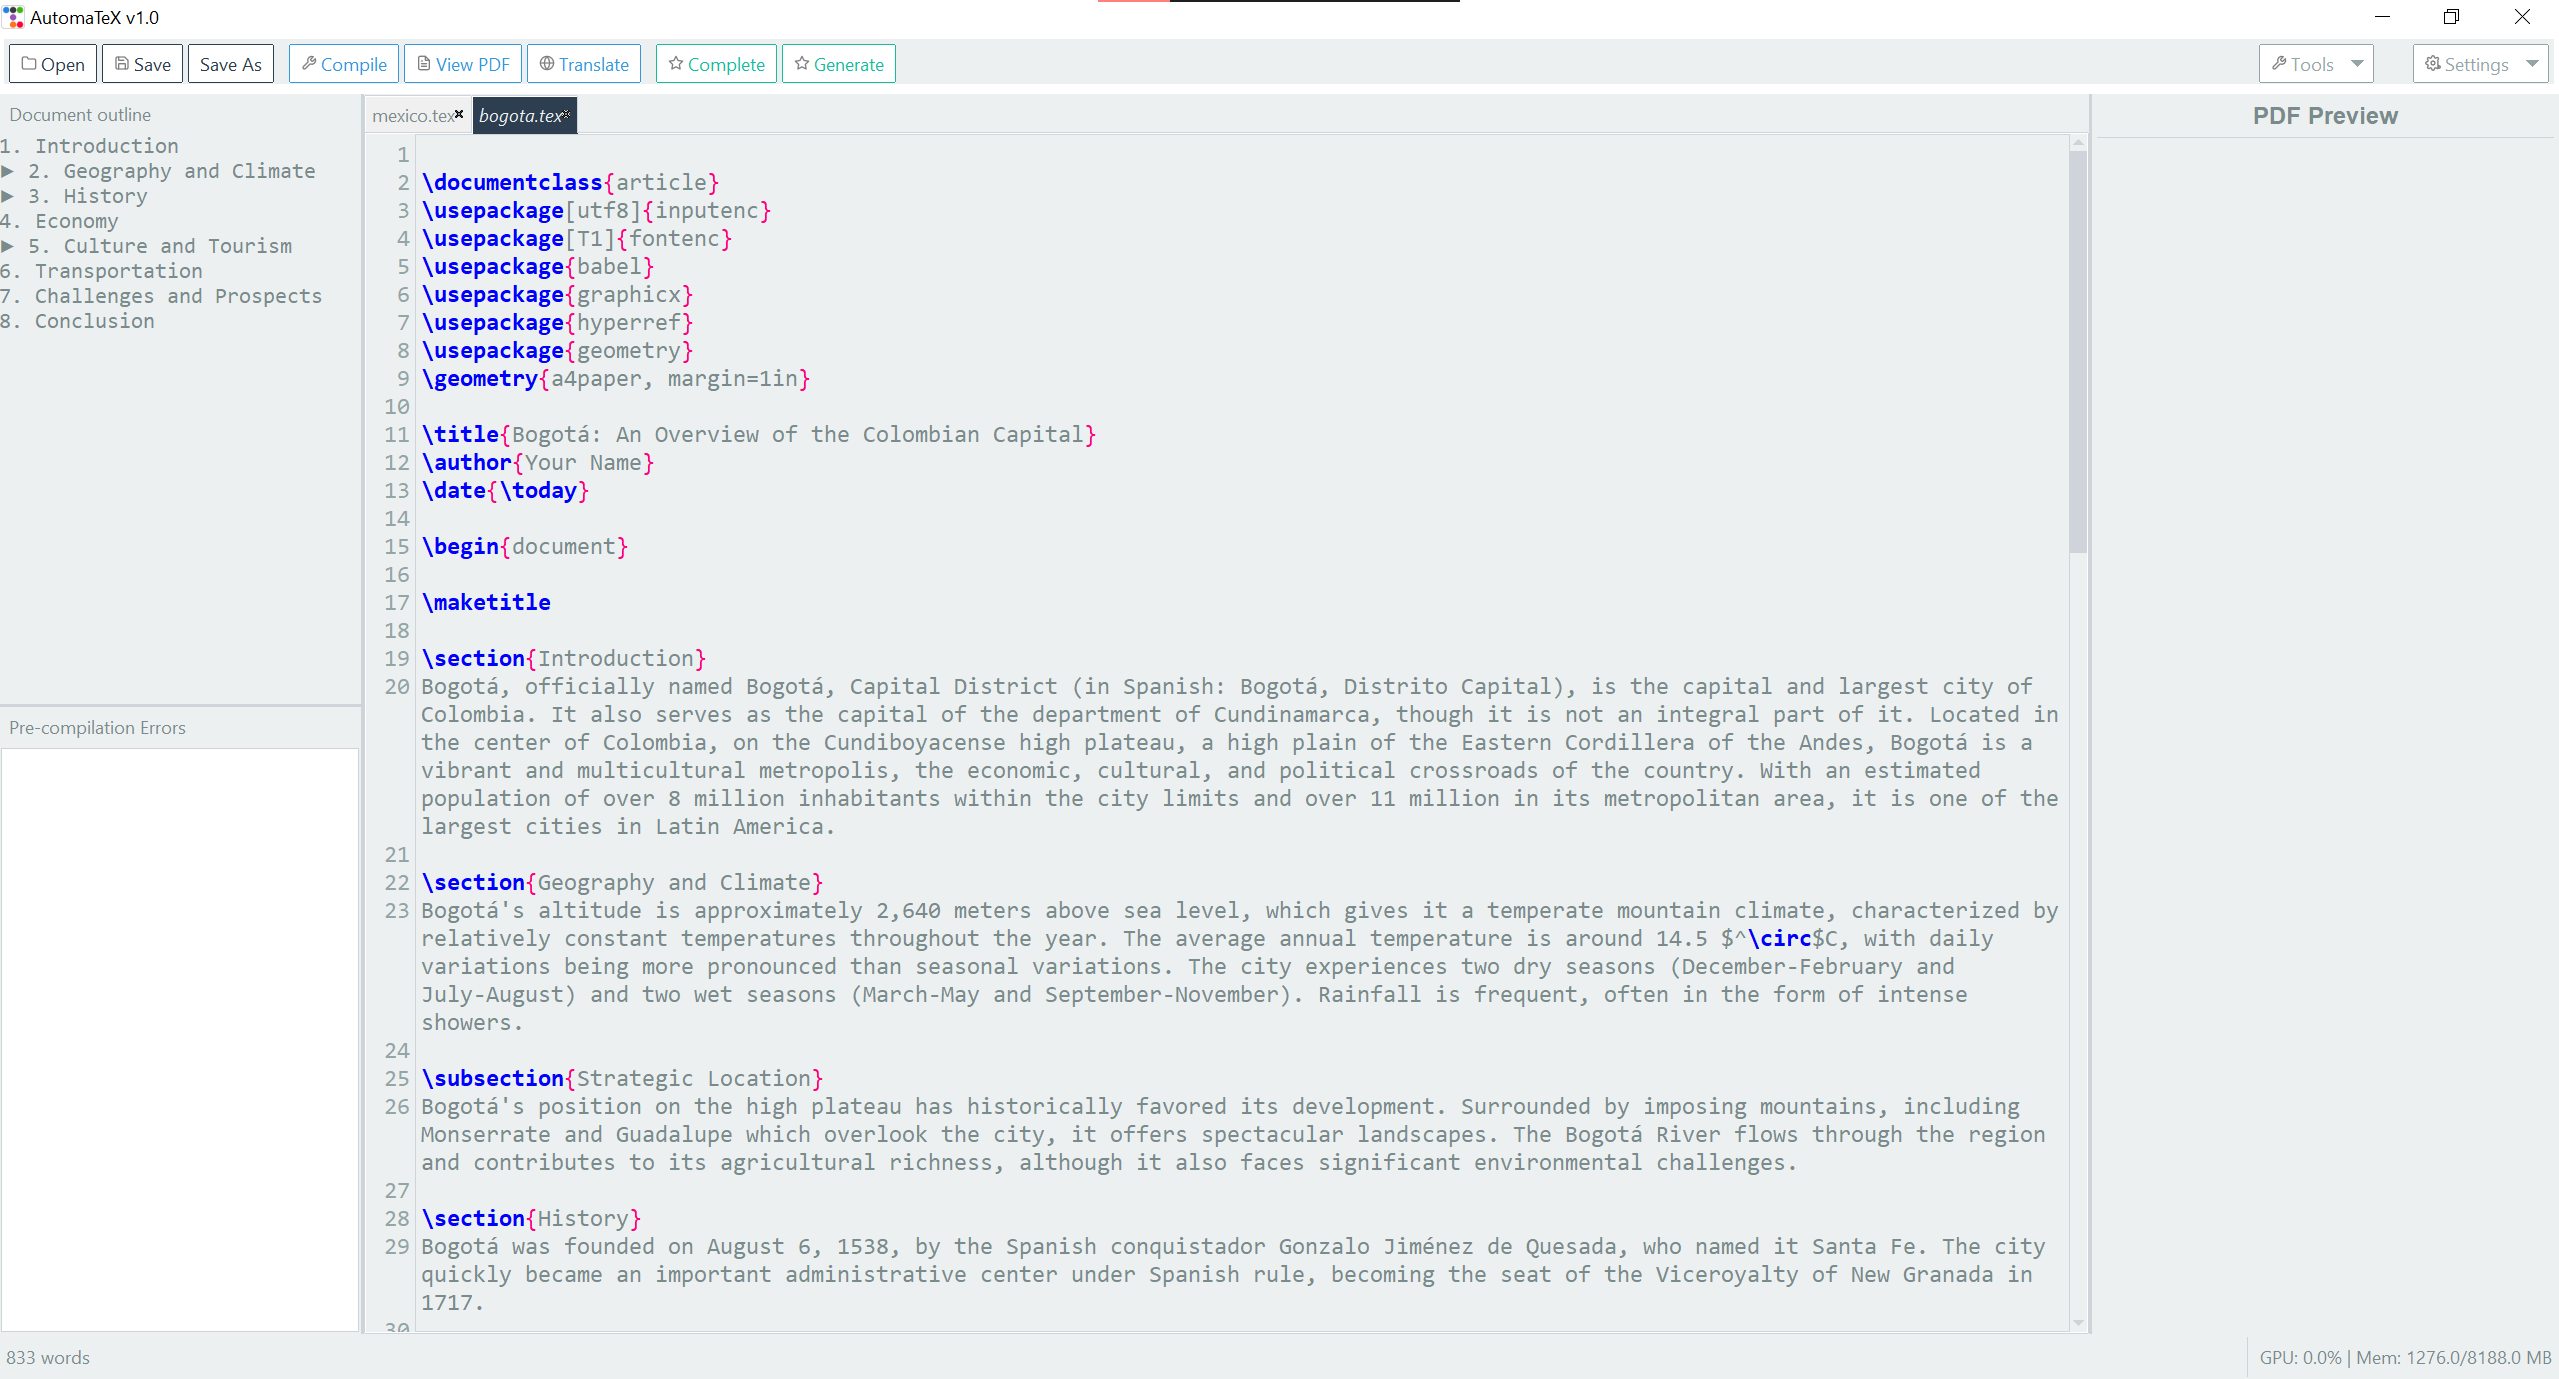
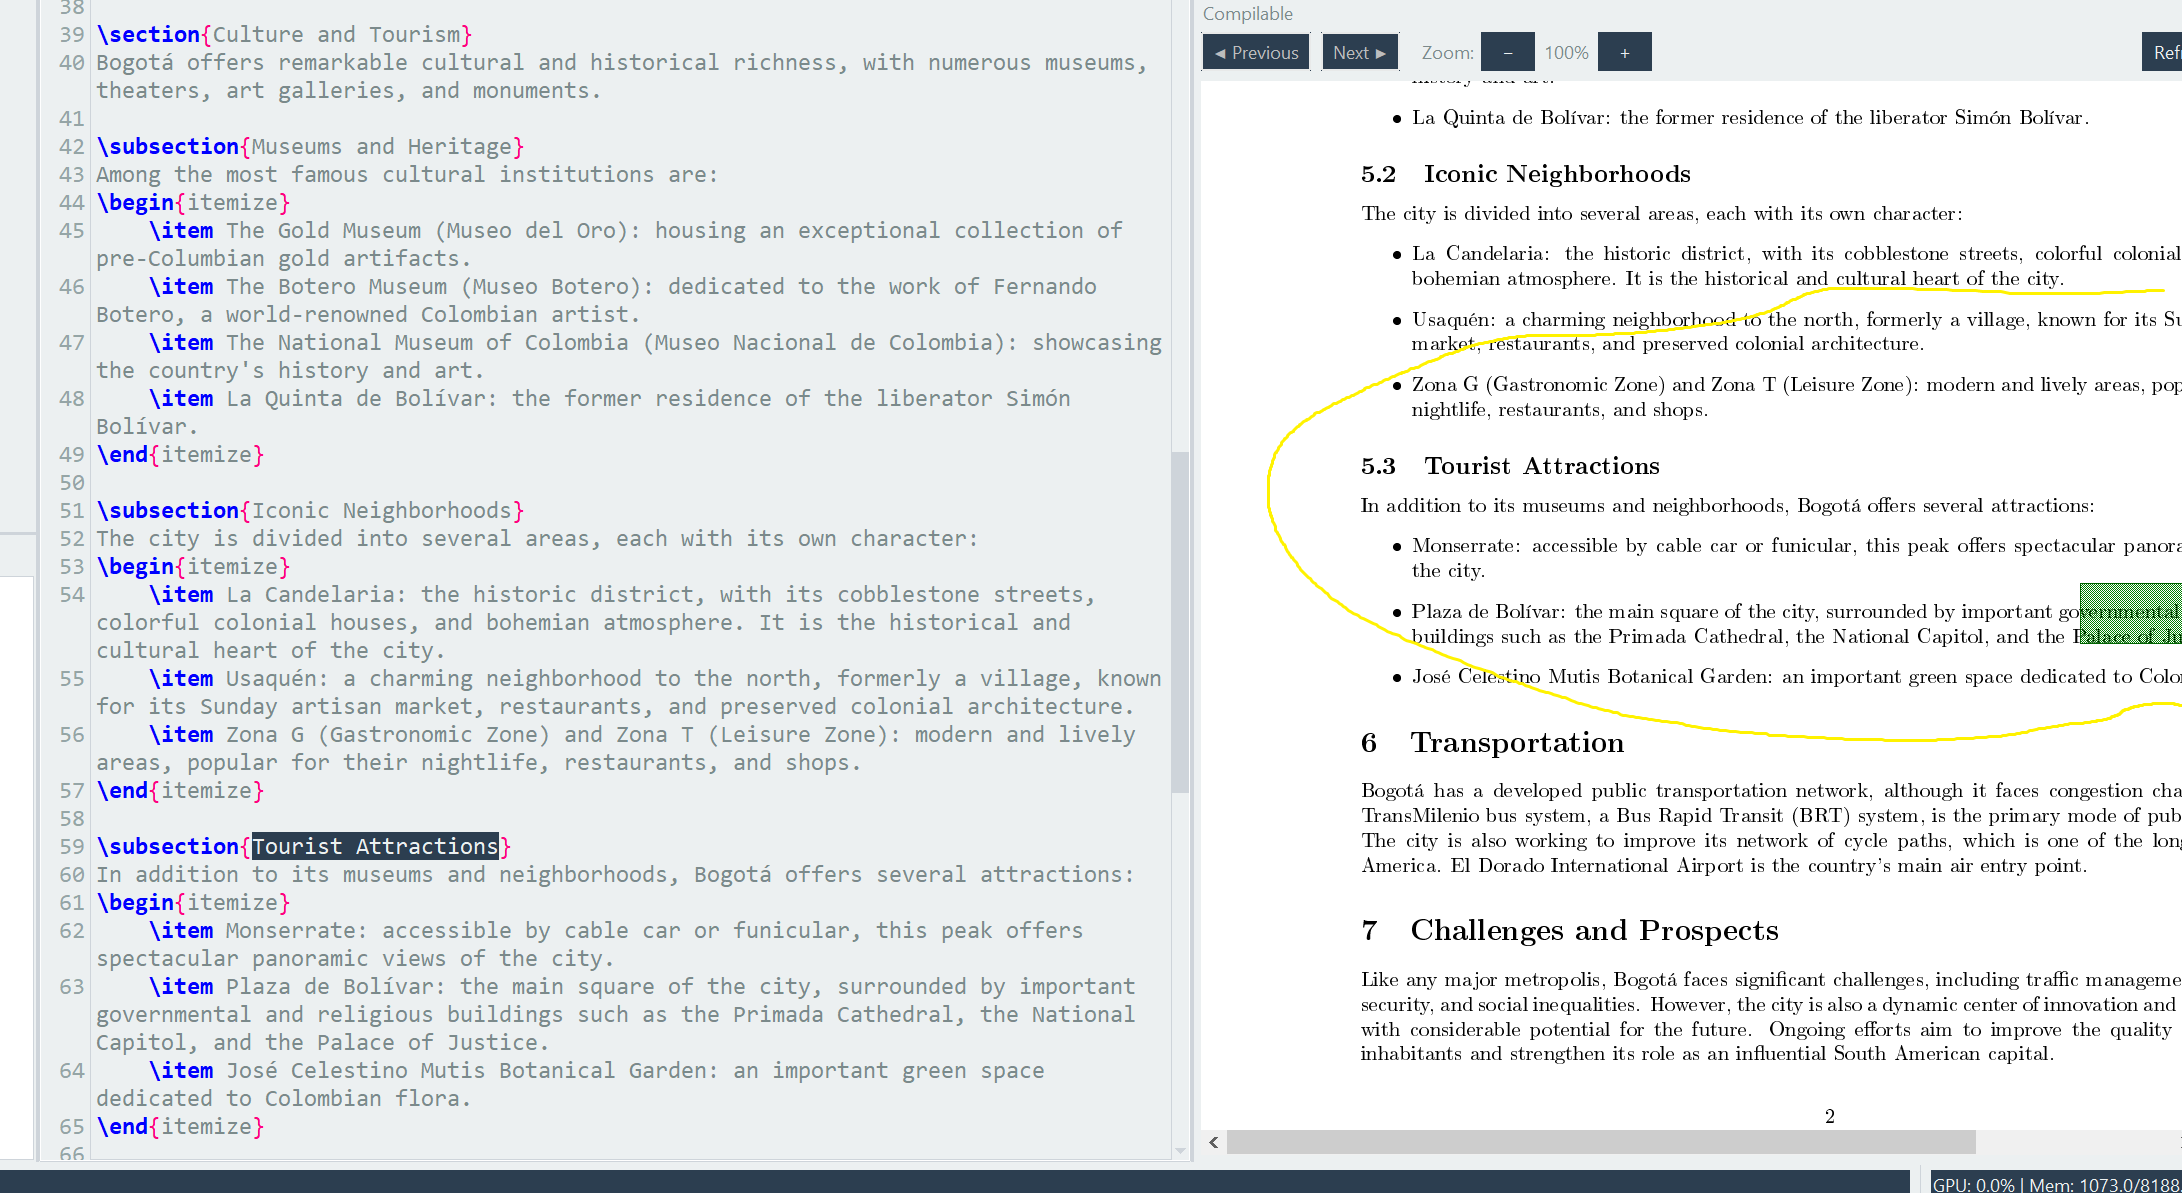
fix(pdfgoto): highlighting the right section but not perfect: large zone to fix not word precise highlight + sensitive to repetitive sequences ; highlighting is working but needs to be reworked later

Changed region(s): [[0.0, 0.0, 1.0, 1.0], [0.9038, 0.3101, 1.0, 0.3412]]

diff --git a/pdf_preview/navigator.py b/pdf_preview/navigator.py
@@ -6,6 +6,7 @@ Handles navigation to specific text within PDF documents and highlights the foun
 import os
 import tkinter as tk
 from utils import debug_console
+import pdfplumber
 
 class PDFTextNavigator:
     """
@@ -50,6 +51,28 @@ class PDFTextNavigator:
         layout = self.pdf_viewer.page_layouts[page_num]
         y_offset = layout['y_offset']
         
+        # Get page dimensions from pdfplumber to calculate scaling factor
+        try:
+            with pdfplumber.open(self.pdf_viewer.pdf_path) as pdf:
+                if page_num - 1 < len(pdf.pages):
+                    page = pdf.pages[page_num - 1]
+                    page_width = page.width
+                    page_height = page.height
+                else:
+                    debug_console.log(f"Page {page_num} not found in PDF.", level='WARNING')
+                    return
+        except Exception as e:
+            debug_console.log(f"Error getting page dimensions: {e}", level='ERROR')
+            return
+
+        # Ensure dimensions are not zero to avoid division by zero
+        if not page_width or not page_height:
+            debug_console.log(f"Invalid page dimensions for page {page_num}.", level='WARNING')
+            return
+
+        scale_x = layout['width'] / float(page_width)
+        scale_y = layout['height'] / float(page_height)
+        
         # Calculate the bounding box for the text
         if start_idx + text_length <= len(chars):
             # Get the characters for the text
@@ -68,16 +91,19 @@ class PDFTextNavigator:
                     min_y = min(min_y, char['top'])
                     max_y = max(max_y, char['bottom'])
                 
-                # Apply zoom scaling and position offset
-                scaled_min_x = min_x * self.pdf_viewer.zoom_level
-                scaled_max_x = max_x * self.pdf_viewer.zoom_level
-                scaled_min_y = min_y * self.pdf_viewer.zoom_level
-                scaled_max_y = max_y * self.pdf_viewer.zoom_level
+                # Apply scaling
+                scaled_min_x = min_x * scale_x
+                scaled_max_x = max_x * scale_x
+                scaled_min_y = min_y * scale_y
+                scaled_max_y = max_y * scale_y
                 
-                # Create a semi-transparent green rectangle
+                # Add a vertical margin for the highlight
+                v_margin = 25  # pixels
+                
+                # Create a semi-transparent green rectangle that spans the full width
                 rect = self.pdf_viewer.canvas.create_rectangle(
-                    10 + scaled_min_x, y_offset + scaled_min_y,
-                    10 + scaled_max_x, y_offset + scaled_max_y,
+                    10, y_offset + scaled_min_y - v_margin,
+                    10 + layout['width'], y_offset + scaled_max_y + v_margin,
                     fill="green", stipple="gray50", outline="darkgreen", width=1
                 )
                 
